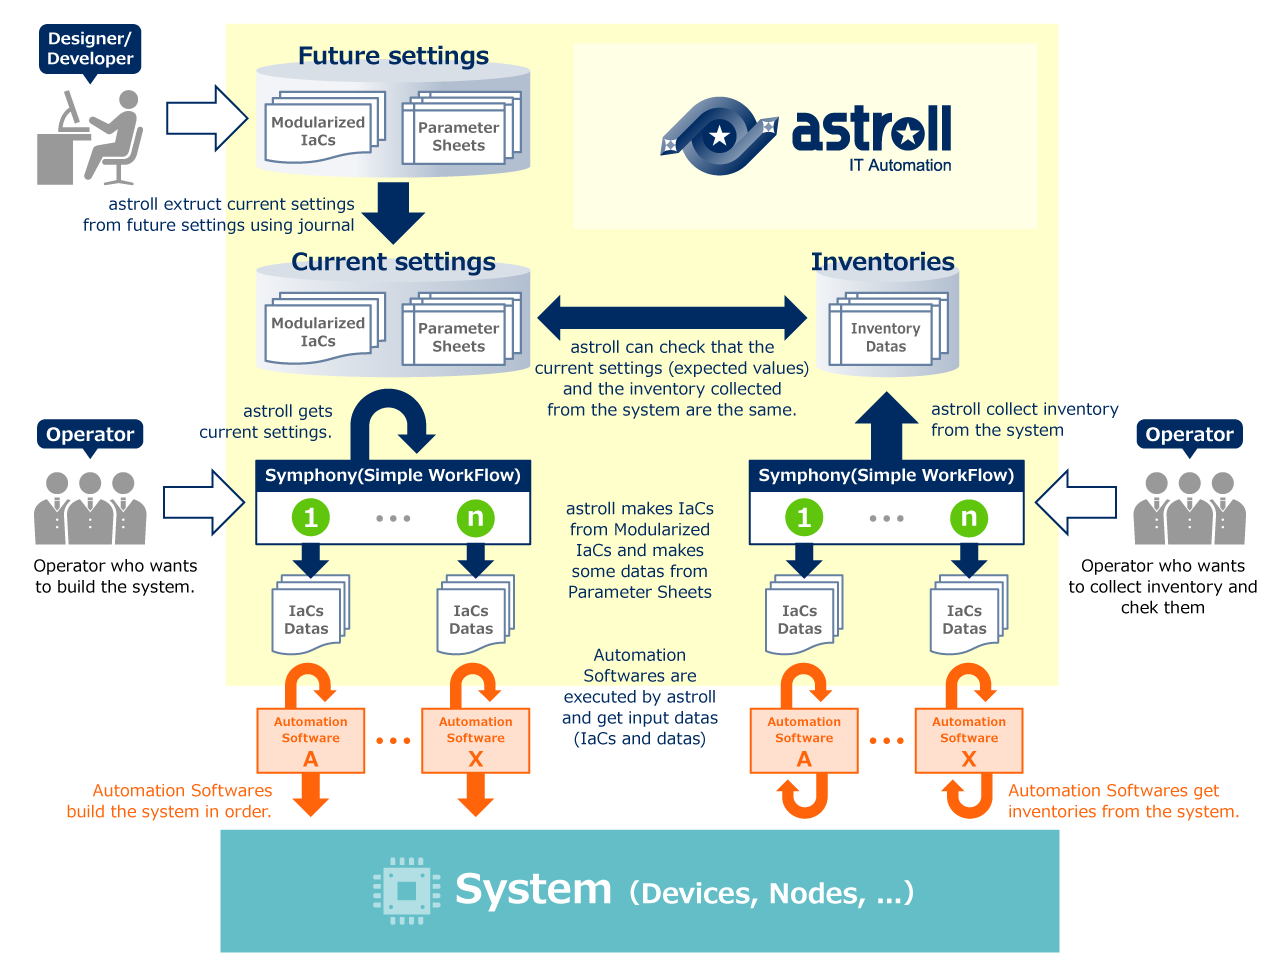
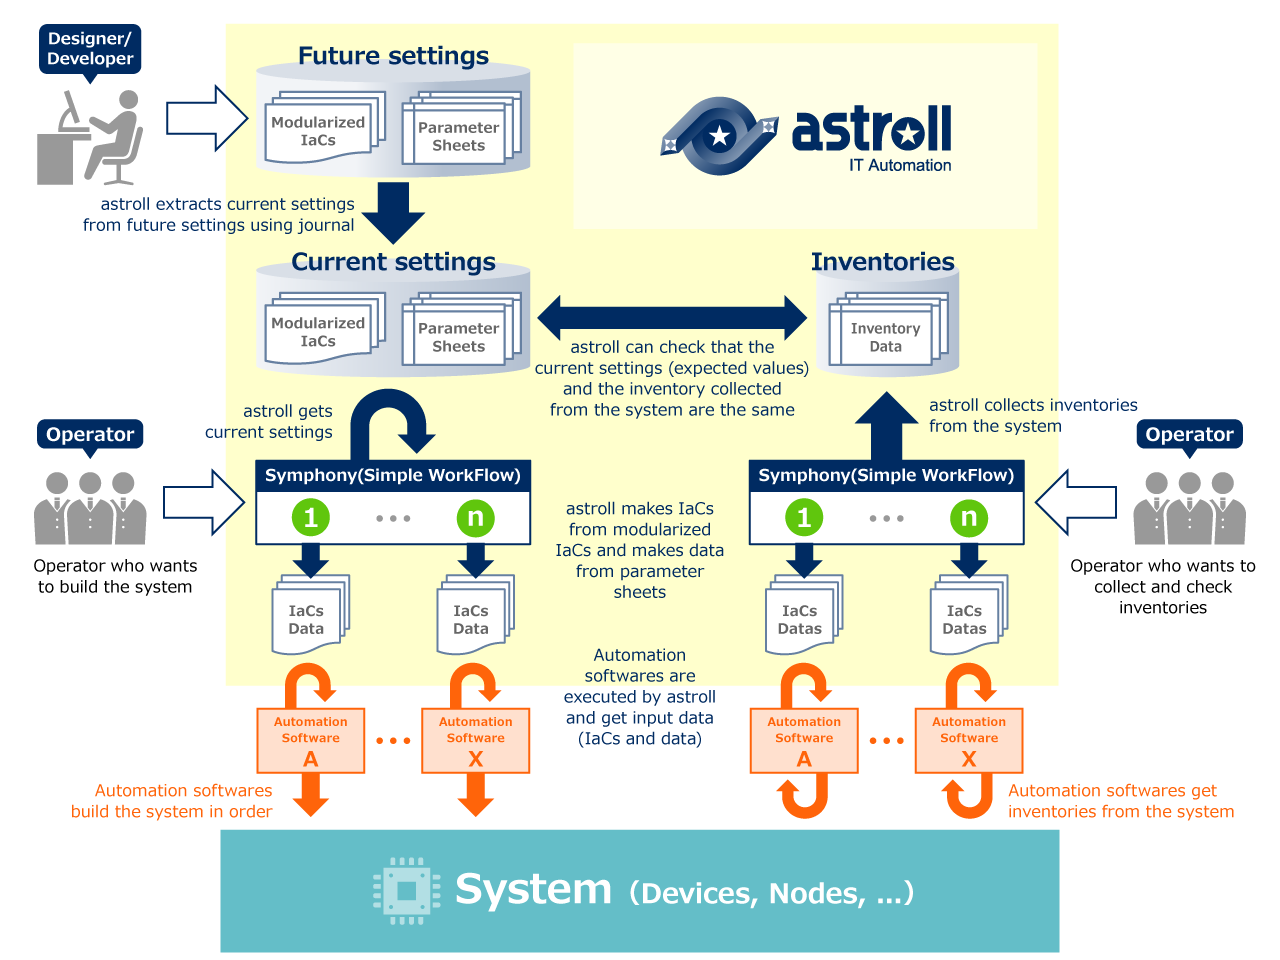
English correction.

diff --git a/overview.html b/overview.html
@@ -137,7 +137,7 @@ Overview</h1>
 
 <section id="systemLifeCycle">
 <div class="sectionInner">
-<h2>System life cycle that is realized using <em>astroll IT Automation</em></h2>
+<h2>System life cycle using <em>astroll IT Automation</em></h2>
 <p><span class="exImage"><img src="asset/img/en_system.png" alt="System life cycle support"></span></p>
 </div>
 </section>
@@ -148,36 +148,33 @@ Overview</h1>
 
 <p><span class="exImage"><img src="asset/img/en_system_overview.png" alt="Overview"></span></p>
 
-<h3>You can centrally manage IaCs and parameters from multiple user interfaces.</h3>
+<h3>Centrally manage IaCs and parameters from multiple user interfaces</h3>
 
 <div class="leftImage image25"><img src="asset/img/en_system_management.png" alt="Management"></div>
 
-<p>Using astroll, you can centrally manage the parameters to be input to the system.<br>
-You can manage them using astroll's web user interface, or Spreadsheet (Excel), or Machine interface (Rest API).</p>
+<p>With astroll you can centrally manage the parameters to be input into the system using astroll's web user interface, spreadsheets (Excel), or a machine interface (Rest API).</p>
 	
-<h3>Improved reusability by IaCs that are modularized and managed by <em>astroll IT Automation</em>.</h3>
+<h3>Modularizing and managing IaCs for improved reusability</h3>
 
 <div class="rightImage image25"><img src="asset/img/en_system_module.png" alt="Module"></div>
 
 <p>astroll helps you to modularize and manage IaCs.<br>
 When you use astroll to build a system automatically, astroll joins together the modularized IaCs to create a workflow, and combines that workflow with the parameters to execute.<br>
-Such a mechanism allows you to cut out generic IaCs, modularize it, and reuse it in various workflows.</p>
+This allows you to take generic IaCs, modularize them, and reuse them in various workflows.</p>
 
-<h3>Execution management of automation softwares by <em>astroll IT Automation</em>.</h3>
+<h3>Automation software execution management with <em>astroll IT Automation</em></h3>
 
 <div class="leftImage image25"><img src="asset/img/system_run.png" alt="Workflow"></div>
 
-<p>IaCs that make up the workflow is executed by appropriate automation softwares such as ANSIBLE.<br>
-You can choose which automation software to use based on the system integration you want to execute and the features of automation software.</p>
+<p>The IaCs that make up the workflow are executed by appropriate automation software, such as Ansible. You can choose which automation software to use based on the system integration you want to execute and the features of the automation software.</p>
 	
-<h3>Real-time monitoring of execution status by <em>astroll IT Automation</em>.</h3>
+<h3>Real-time monitoring of execution status by <em>astroll IT Automation</em></h3>
 
 <div class="rightImage"><img src="asset/img/en_system_realtime.png" alt="Real-time monitoring"></div>
 
-<p>You can monitor the execution status of the automation softwares in real time using the interface of astroll.<br>
-You can place a hold point in the middle of your workflow.<br>
-You can also make an emergency stop if an unexpected event occurs during workflow execution.<br>
-You can get execution logs which ware collected by astroll and get reports of success or failure.</p>
+<p>You can monitor the execution status of automation software in real time using astroll's interface.<br>
+A hold point can be placed in the middle of your workflow and you can also perform an emergency stop if an unexpected event occurs during workflow execution.<br>
+astroll generates execution logs and reports failed or successful executions. </p>
 
 </div>
 </section>
@@ -186,18 +183,17 @@ You can get execution logs which ware collected by astroll and get reports of su
 <div class="sectionInner">
 <h2>Applied usage</h2>
 	
-<h3>Acquisition and collection of system inventories.</h3>
+<h3>Acquisition and collection of system inventories</h3>
 
-<p>You can collect system inventories in astroll by acquiring system inventories using IaCs of automation softwares.<br>
+<p>Inventories acquired using automation software IaCs can be automatically collected by astroll.<br>
 astroll can be used for IT asset management.</p>
 
-<h3><em>astroll IT Automation</em> can be used for system inventory validity check.</h3>
+<h3>Using <em>astroll IT Automation</em> for system inventory validity checks</h3>
 
 <div class="rightImage"><img src="asset/img/en_system_check.png" alt="Check"></div>
 
 <p>You can use astroll to manage the generation of system settings you want to set in the future.<br>
-Therefore, expected current system settings that should be set in the system can be extracted from future system settings using journal.<br>
-You can check that the current settings (expected values) and system inventories collected from the system are the same.</p>
+Expected current system settings can be extracted from the parameter history and checked to confirm that they match the inventories collected from the system. </p>
     
 </div>
 </section>
@@ -221,7 +217,7 @@ You can check that the current settings (expected values) and system inventories
 <div id="footerAbout">
 <div id="footerLogo"><img src="asset/img/start_logo.png" alt="astroll IT Automation"></div>
 
-<p>astroll IT Automation is an open source software to provide added value to system design, construction and operation.</p>
+<p>astroll IT Automation is an open source software created to provide added value in the design, construction and operation of systems.</p>
 
 </div>
 

diff --git a/learn.html b/learn.html
@@ -138,40 +138,38 @@ Learn</h1>
 <section id="astrollIntroduction">
 <div class="sectionInner">
 <h2><em>astroll IT Automation</em> Installation</h2>
-<p>You can get how to install astroll IT Automation from 3 options: online, offline and manual.<br>
-Also you can get how to get started.</p>
+<p>astroll IT Automation has 3 types of installation: online, offline and manual.<br>
+See below for information on how to get started.</p>
 
 <div class="tabContents">
 <ul class="tabMenu">
 <li><a href="#onlineInstall" class="touch">Online<br>
-Install</a></li>
+Installation</a></li>
 <li><a href="#offlineInstall" class="touch">Offline<br>
-Install</a></li>
+Installation</a></li>
 <li><a href="#manualInstall" class="touch">Manual<br>
-Install</a></li>
+Installation</a></li>
 </ul>
 
 <div id="onlineInstall" class="tabContent">
-<h3><em>astroll IT Automation</em> <strong>Online</strong> instrall</h3>
+<h3><em>astroll IT Automation</em> <strong>Online</strong> Installation</h3>
 <div class="slide"><img src="asset/img/soon.png" alt="Coming soon" style="vertical-align: middle;"></div>
-<p>This installation manual enable you to install astroll IT Automation easily in your environment.</p>
-<p>You can install astroll on any operating systems that are compatible with Red Hat Enterprise Linux, and you need to be able to connect to the Internet.<br>
-Also, ANSIBLE is selected as automation software.</p>
-<p>After completion of installation, you are able to start the astroll IT Automation Quick Start below.<br>
-And, you can immediately experience the powerful interface of astroll!</p>
+<p>This installation manual enables you to easily install astroll IT Automation in your environment.</p>
+<p>Astroll can be installed on any operating systems that are compatible with Red Hat Enterprise Linux, and an Internet connection is required. Ansible is selected as the automation software.</p>
+<p>After installation is complete, by using the Quick Start guide below you can immediately experience astroll's powerful interface!</p>
 <!--<p><span class="download"><i class="fas fa-hourglass-half"></i> During slide creation</span></p>-->
 </div>
 
 <div id="offlineInstall" class="tabContent">
-<h3><em>astroll IT Automation</em> <strong>Offline</strong> instrall</h3>
+<h3><em>astroll IT Automation</em> <strong>Offline</strong> Installation</h3>
 <div class="slide"><img src="asset/img/soon.png" alt="Coming soon" style="vertical-align: middle;"></div>
-<p>Sorry. astroll Offline Installation is in preparation.</p>
+<p>Sorry, astroll Offline Installation is under construction.</p>
 </div>
 
 <div id="manualInstall" class="tabContent">
-<h3><em>astroll IT Automation</em> <strong>Manual</strong> instrall</h3>
+<h3><em>astroll IT Automation</em> <strong>Manual</strong> Installation</h3>
 <div class="slide"><img src="asset/img/soon.png" alt="Coming soon" style="vertical-align: middle;"></div>
-<p>Sorry. astroll Manual Installation is in preparation.</p>
+<p>Sorry, astroll Manual Installation is under construction.</p>
 </div>
 
 </div>
@@ -182,15 +180,12 @@ And, you can immediately experience the powerful interface of astroll!</p>
 <section id="astrollQuickStart">
 <div class="sectionInner">
 
-<h2><em>astroll IT Automation</em> Let's touch</h2>
+<h2>Getting Started with <em>astroll IT Automation</em></h2>
 <h3><em>astroll IT Automation</em> Quick start</h3>
 <div class="slide"><img src="asset/img/soon.png" alt="Coming soon" style="vertical-align: middle;"></div>
-<p>There is a quick start document for you to experience the user interface of astroll IT Automation quickly.<br>
-astroll controls multiple automation softwares such as ANSIBLE from northbound.<br>
-In this quick start document, ANSIBLE is selected as automation software because of its broad scope.<br>
-You can experience astroll controlling ANSIBLE.<br>
-Also, astroll offers the most important functions listed below, and astroll will not provide sufficient value if you do not use these functions.<br>
-However in order to have a quick start, the use of these functions is omitted in this quick start document.</p>
+<p>This a quick start document to allow you to quickly familiarize yourself with the user interface of astroll IT Automation. Astroll controls multiple northbound automation softwares, such as Ansible.<br>
+In this quick start document, Ansible is selected as the automation software because of its broad scope.<br>
+In order to provide a smooth introduction, the functions listed below have been omitted from this quick start document, however, they are important features of astroll and their use is recommended to get the most out of the software.</p>
 <ul>
 <li>Manage parameters</li>
 <li>Link parameters to variables in IaCs</li>
@@ -218,7 +213,7 @@ However in order to have a quick start, the use of these functions is omitted in
 <div id="footerAbout">
 <div id="footerLogo"><img src="asset/img/start_logo.png" alt="astroll IT Automation"></div>
 
-<p>astroll IT Automation is an open source software to provide added value to system design, construction and operation.</p>
+<p>astroll IT Automation is an open source software created to provide added value in the design, construction and operation of systems.</p>
 
 </div>
 

diff --git a/index.html b/index.html
@@ -145,7 +145,7 @@
 <li>
 <dl>
 <dt><i class="fas fa-times-circle"></i>Data management<br>
-errors.</dt>
+errors</dt>
 <dd class="text"><i class="fas fa-check-circle"></i>Centralized management prevents confusion.</dd>
 <dd class="image"><img src="asset/img/home/en_astroll_image01.jpg" alt="astroll image1"></dd>
 </dl>
@@ -153,16 +153,16 @@ errors.</dt>
 <li>
 <dl>
 <dt><i class="fas fa-times-circle"></i>Manual processing<br>
-mistakes.</dt>
+mistakes</dt>
 <dd class="text"><i class="fas fa-check-circle"></i>Automated tasks simplify operation.</dd>
 <dd class="image"><img src="asset/img/home/en_astroll_image02.jpg" alt="astroll image2"></dd>
 </dl>
 </li>
 <li>
 <dl>
-<dt><i class="fas fa-times-circle"></i>Lack of problem<br>
-resolution.</dt>
-<dd class="text"><i class="fas fa-check-circle"></i>Detailed records clarify issues.</dd>
+<dt><i class="fas fa-times-circle"></i>Delays in responding<br>
+to problems.</dt>
+<dd class="text"><i class="fas fa-check-circle"></i>Detailed records identify issues.</dd>
 <dd class="image"><img src="asset/img/home/en_astroll_image03.jpg" alt="astroll image3"></dd>
 </dl>
 </li>
@@ -186,49 +186,44 @@ resolution.</dt>
 <li>
 <dl>
 <dt><i class="fas fa-cog"></i> astroll helps to improve the reusability of the IaC.</dt>
-<dd>astroll helps to modularize your IaCs for reusability.<br>
-Also at the time of execution, astroll uses them together.</dd>
+<dd>astroll helps to modularize your IaCs for reusability and uses them together during execution.</dd>
 </dl>
 </li>
 <li>
 <dl>
 <dt><i class="fas fa-cog"></i> astroll prevents typos, such as variable names.</dt>
-<dd>astroll automatically parses IaCs to find out the variable names.<br>
-You can select and use variable names without typos.</dd>
+<dd>astroll automatically parses IaCs to find out the variable names. You can select and use variable names without typos.</dd>
 </dl>
 </li>
 <li>
 <dl>
 <dt><i class="fas fa-cog"></i> astroll manages the generation of system parameters.</dt>
-<dd>astroll manages the generation of system parameters to be set in variables.<br>
-You can search for system parameters designed in the past from astroll.</dd>
+<dd>astroll manages the generation of system parameters to be set in variables. You can also search for system parameters designed in the past.</dd>
 </dl>
 </li>
 <li>
 <dl>
-<dt><i class="fas fa-cog"></i> astroll controls multiple automation softwares from northbound.</dt>
-<dd>astroll controls multiple automation softwares such as ANSIBLE from northbound.<br>
-astroll automatically generates the input data required for the automation softwares to operate.</dd>
+<dt><i class="fas fa-cog"></i> astroll controls multiple northbound automation softwares.</dt>
+<dd>astroll controls multiple automation softwares such as Ansible and automatically generates the input data required for them to operate.</dd>
 </dl>
 </li>
 <li>
 <dl>
-<dt><i class="fas fa-cog"></i> astroll helps you monitor the execution of automation softwares in real time.</dt>
-<dd>astroll helps you monitor the execution status of IaCs in real time.<br>
-astroll also collects execution logs and reports success or failure.</dd>
+<dt><i class="fas fa-cog"></i> astroll helps you monitor the execution of automation software in real time</dt>
+<dd>astroll helps you monitor the execution status of IaCs in real time. It also collects execution logs and reports successful and failed executions.</dd>
 </dl>
 </li>
 </ul>
-<p class="linkArea"><a href="learn.html" class="move"><span>Start astroll <i class="fas fa-angle-right"></i></span></a></p>
+<p class="linkArea"><a href="learn.html" class="move"><span>Start using astroll <i class="fas fa-angle-right"></i></span></a></p>
 </div>
 </section>
 
 <section id="documentation">
 <div class="sectionInner">
-<h2>Do you want to know more about <em>astroll IT Automation</em>?</h2>
+<h2>Various documents are available, click the button for more information.</h2>
 <div class="rightImage"><img src="./asset/img/home/documents_image.jpg" alt="Documents"></div>
 <p>Various documents are available.</p>
-<p class="linkArea"><a href="documents.html" class="move"><span>Documents check <i class="fas fa-angle-right"></i></span></a></p>
+<p class="linkArea"><a href="documents.html" class="move"><span>Documents <i class="fas fa-angle-right"></i></span></a></p>
 </div>
 </section>
 
@@ -264,7 +259,7 @@ astroll also collects execution logs and reports success or failure.</dd>
 <div id="footerAbout">
 <div id="footerLogo"><img src="asset/img/start_logo.png" alt="astroll IT Automation"></div>
 
-<p>astroll IT Automation is an open source software to provide added value to system design, construction and operation.</p>
+<p>astroll IT Automation is an open source software created to provide added value in the design, construction and operation of systems.</p>
 
 </div>
 

diff --git a/downloads.html b/downloads.html
@@ -67,8 +67,8 @@
 <header>
 <div id="header">
 <div id="logo">
-<a href="./index.html"><img src="asset/img/header_logo.png" alt="astroll IT Automation"></a>
 
+<a href="./index.html"><img src="asset/img/header_logo.png" alt="astroll IT Automation"></a>
 </div>
 <nav>
 
@@ -132,8 +132,7 @@ Downloads</h1>
 <h2>Downloading <em>astroll IT Automation</em></h2>
 <h3>How to download</h3>
 <p>
-  To download the latest source code of astroll IT Automation, access the <a href="https://github.com/astroll/it-automation/releases">GitHub Release page</a>.
-  Installing astroll IT Automation is very simple, you need just few steps as below.
+The latest astroll IT Automation source code can be downloaded from the <a href="https://github.com/astroll/it-automation/releases" target="_blank">GitHub release page</a>. astroll IT Automation is easy to install, just follow the steps below.
 </p>
 
 <pre>
@@ -145,7 +144,7 @@ Downloads</h1>
 </pre>
 
 <p>
-  The install manusal describes the details of configuration file "astroll_answers.txt" and "astroll_builder_setting.txt".
+The installation manual describes the configuration of astroll_answers.txt and astroll_builder_setting.txt.
 </p>
 
 </div>
@@ -170,7 +169,7 @@ Downloads</h1>
 <div id="footerAbout">
 <div id="footerLogo"><img src="asset/img/start_logo.png" alt="astroll IT Automation"></div>
 
-<p>astroll IT Automation is an open source software to provide added value to system design, construction and operation.</p>
+<p>astroll IT Automation is an open source software created to provide added value in the design, construction and operation of systems.</p>
 
 </div>
 

diff --git a/documents.html b/documents.html
@@ -129,9 +129,9 @@ Documents</h1>
 
 <section>
 <div class="sectionInner">
-<h2>Coming soon.</h2>
+<h2>Coming soon</h2>
 <div class="leftImage image25"><img src="asset/img/coming_soon.png" alt="Coming soon."></div>
-<p>Sorry. astroll IT Automation Documents page is being prepared.</p>
+<p>Sorry, the astroll IT Automation Documents page is under construction.</p>
 </div>
 </section>
 
@@ -154,7 +154,7 @@ Documents</h1>
 <div id="footerAbout">
 <div id="footerLogo"><img src="asset/img/start_logo.png" alt="astroll IT Automation"></div>
 
-<p>astroll IT Automation is an open source software to provide added value to system design, construction and operation.</p>
+<p>astroll IT Automation is an open source software created to provide added value in the design, construction and operation of systems.</p>
 
 </div>
 
